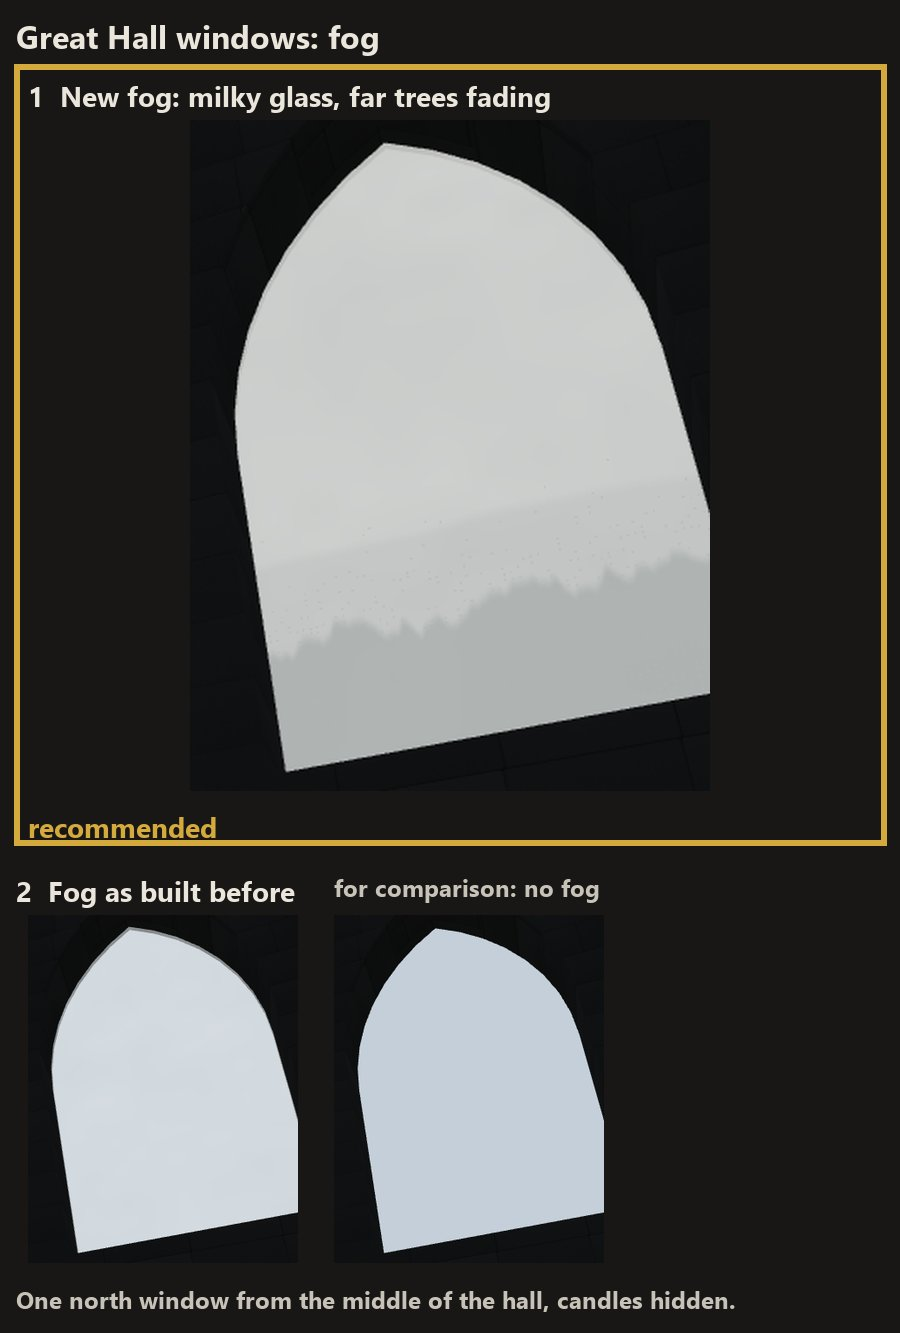
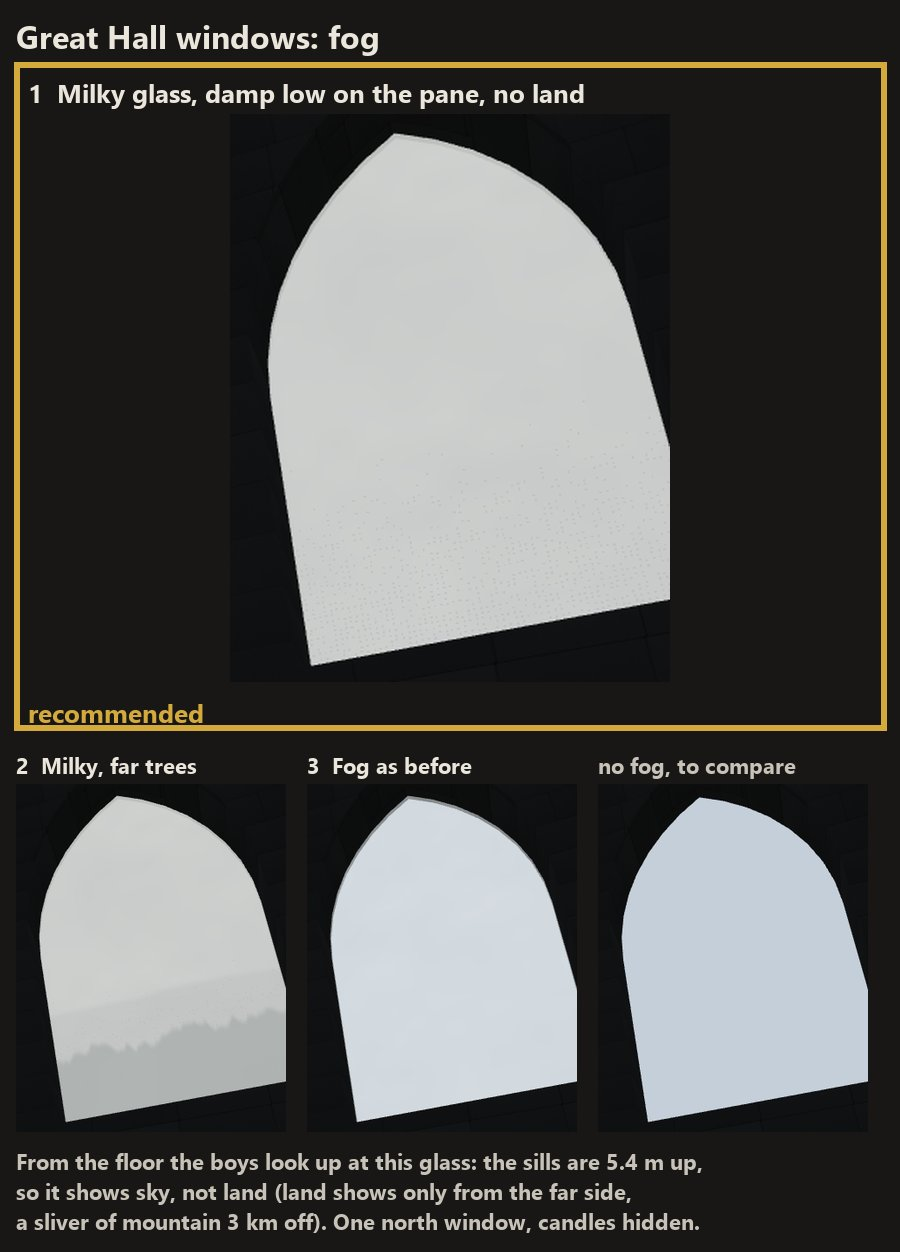
Weather: fog shows no far land in the hall; fog card redone

Changed region(s): [[0.0, 0.1246, 0.9956, 0.9968], [0.0, 0.0, 0.9644, 0.1246], [0.5911, 0.1246, 0.6222, 0.1558]]

diff --git a/page/castle-weather.js b/page/castle-weather.js
@@ -145,7 +145,7 @@
   }
   var PVERT = 'attribute vec2 aSize; varying vec2 vUv; varying vec2 vSize;' +
     'void main(){ vUv=uv; vSize=aSize; gl_Position=projectionMatrix*modelViewMatrix*vec4(position,1.0); }';
-  var PFRAG = 'uniform float uKind; uniform float uFrost; uniform float uTime; uniform float uAmount; uniform float uWind; varying vec2 vUv; varying vec2 vSize;' +
+  var PFRAG = 'uniform float uKind; uniform float uFrost; uniform float uTime; uniform float uAmount; uniform float uWind; uniform float uShapes; varying vec2 vUv; varying vec2 vSize;' +
     'float h21(vec2 p){ p=fract(p*vec2(123.34,456.21)); p+=dot(p,p+45.32); return fract(p.x*p.y); }' +
     'float vn(vec2 p){ vec2 i=floor(p), f=fract(p); f=f*f*(3.0-2.0*f); return mix(mix(h21(i),h21(i+vec2(1,0)),f.x),mix(h21(i+vec2(0,1)),h21(i+vec2(1,1)),f.x),f.y); }' +
     'void main(){ vec2 m=vUv*vSize; vec3 col=vec3(0.82,0.86,0.9); float a=0.0;' +
@@ -159,7 +159,7 @@
       'float run=step(0.55,hc)*smoothstep(0.09,0.02,lx)*trail*0.5;' +
       'a=(0.05+bead*0.46+rim*0.34+run)*uAmount; col=mix(vec3(0.55,0.62,0.7),vec3(0.93,0.96,0.98),bead);' +
     '} else if(uKind>1.5&&uKind<2.5){ a=0.07*uAmount; col=vec3(0.88,0.92,0.96);' +                   /* snow: a cold, pale pane */
-    '} else if(uKind>2.5){ float n=vn(m*1.5+vec2(uTime*0.03,0.0))*0.6+vn(m*4.0)*0.4; float see=clamp(2.0-uAmount,0.0,1.0);' +   /* fog: milky, far shapes fading */
+    '} else if(uKind>2.5){ float n=vn(m*1.5+vec2(uTime*0.03,0.0))*0.6+vn(m*4.0)*0.4; float see=clamp(2.0-uAmount,0.0,1.0)*uShapes;' +   /* fog: milky, far shapes fading */
       'col=vec3(0.80,0.805,0.795)+0.03*(n-0.5);' +
       'float h1=0.20+0.07*vn(vec2(m.x*0.5,1.0))+0.035*vn(vec2(m.x*3.0,2.0))+0.025*vn(vec2(m.x*11.0,3.0))+0.012*vn(vec2(m.x*27.0,4.0));' +   /* the nearer skyline: hills and tree tops */
       'float h2=0.33+0.06*vn(vec2(m.x*0.35,5.0))+0.02*vn(vec2(m.x*2.0,6.0));' +   /* the farther, higher and fainter */
@@ -219,7 +219,7 @@
       if (idx) g.setIndex(idx); return g;
     }
     var pm = new THREE.ShaderMaterial({ vertexShader: PVERT, fragmentShader: PFRAG, transparent: true, depthWrite: false, side: THREE.DoubleSide, fog: false,
-      uniforms: { uKind: { value: 0 }, uFrost: { value: 0 }, uTime: { value: 0 }, uAmount: { value: 1 }, uWind: { value: 0 } } });
+      uniforms: { uKind: { value: 0 }, uFrost: { value: 0 }, uTime: { value: 0 }, uAmount: { value: 1 }, uWind: { value: 0 }, uShapes: { value: o.fogShapes === true ? 1 : 0 } } });   /* fogShapes: far land in the fog, off unless a room has read its window's sight line onto land (the hall's shows only sky, 16 November) */
     var sm = new THREE.ShaderMaterial({ vertexShader: SVERT, fragmentShader: SFRAG, transparent: true, depthWrite: false, fog: false,
       uniforms: { uTime: { value: 0 }, uWind: { value: 0 }, uSpeed: { value: 9 }, uLen: { value: 0.55 }, uAmount: { value: 1 } } });
     var fm = new THREE.ShaderMaterial({ vertexShader: FVERT, fragmentShader: FFRAG, transparent: true, depthWrite: false, fog: false,

diff --git a/page/great-hall.html b/page/great-hall.html
@@ -167,7 +167,7 @@ if (!/[?&]faceall=0/.test(location.search) && window.CastleStoneFace) ['founders
 <script src="shell-w5b.js?v=25"></script>
 <script src="shell-bare.js?v=3"></script>
 <script src="castle-events.js?v=40"></script>
-<script src="castle-weather.js?v=5"></script>
+<script src="castle-weather.js?v=6"></script>
 <script src="castle-sound.js?v=1"></script>
 <script>
 (function () {
@@ -940,7 +940,7 @@ if (WXON) (function () {
       glass.push({ at: [sp.position.x, sp.position.y, sp.position.z], in: inn, w: o.w, h: o.h });
     }
   });
-  WX = { shafts: CastleWeather.shafts(THREE, beams, { north: [0, -1], pool: false }), panes: CastleWeather.panes(THREE, glass, {}) };
+  WX = { shafts: CastleWeather.shafts(THREE, beams, { north: [0, -1], pool: false }), panes: CastleWeather.panes(THREE, glass, { fogShapes: false }) };   /* no far land in the fog: from the floor the north glass shows only sky (sills 5.4, lowest ray about 23 degrees; land at most 15.8, read on plain-3163vr's field, 16 November) */
   WX.shafts.group.name = 'weather-shafts'; WX.panes.group.name = 'weather-panes';
   room.add(WX.shafts.group, WX.panes.group);
 })();

diff --git a/page/dormitory.html b/page/dormitory.html
@@ -178,7 +178,7 @@ Decisions, 8 October 2026, each Godric's from a plan to scale (assets/review/dor
 <script src="castle.js?v=12"></script>
 <script src="castle-ear.js?v=1"></script>
 <script src="castle-events.js?v=31"></script>
-<script src="castle-weather.js?v=5"></script>
+<script src="castle-weather.js?v=6"></script>
 <script src="castle-map.js?v=2"></script>
 <script>
 (function () {
